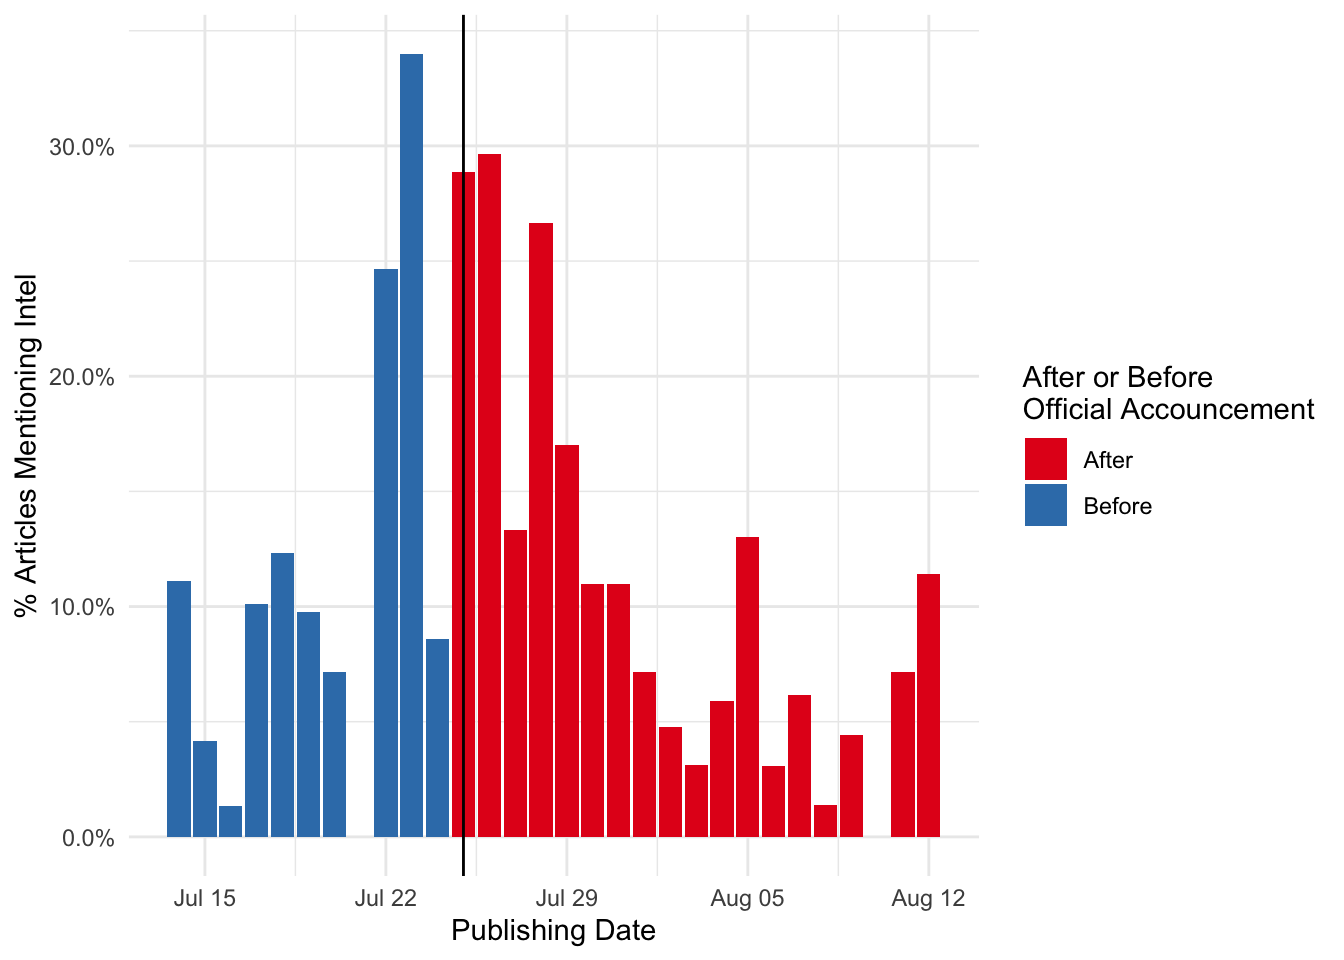
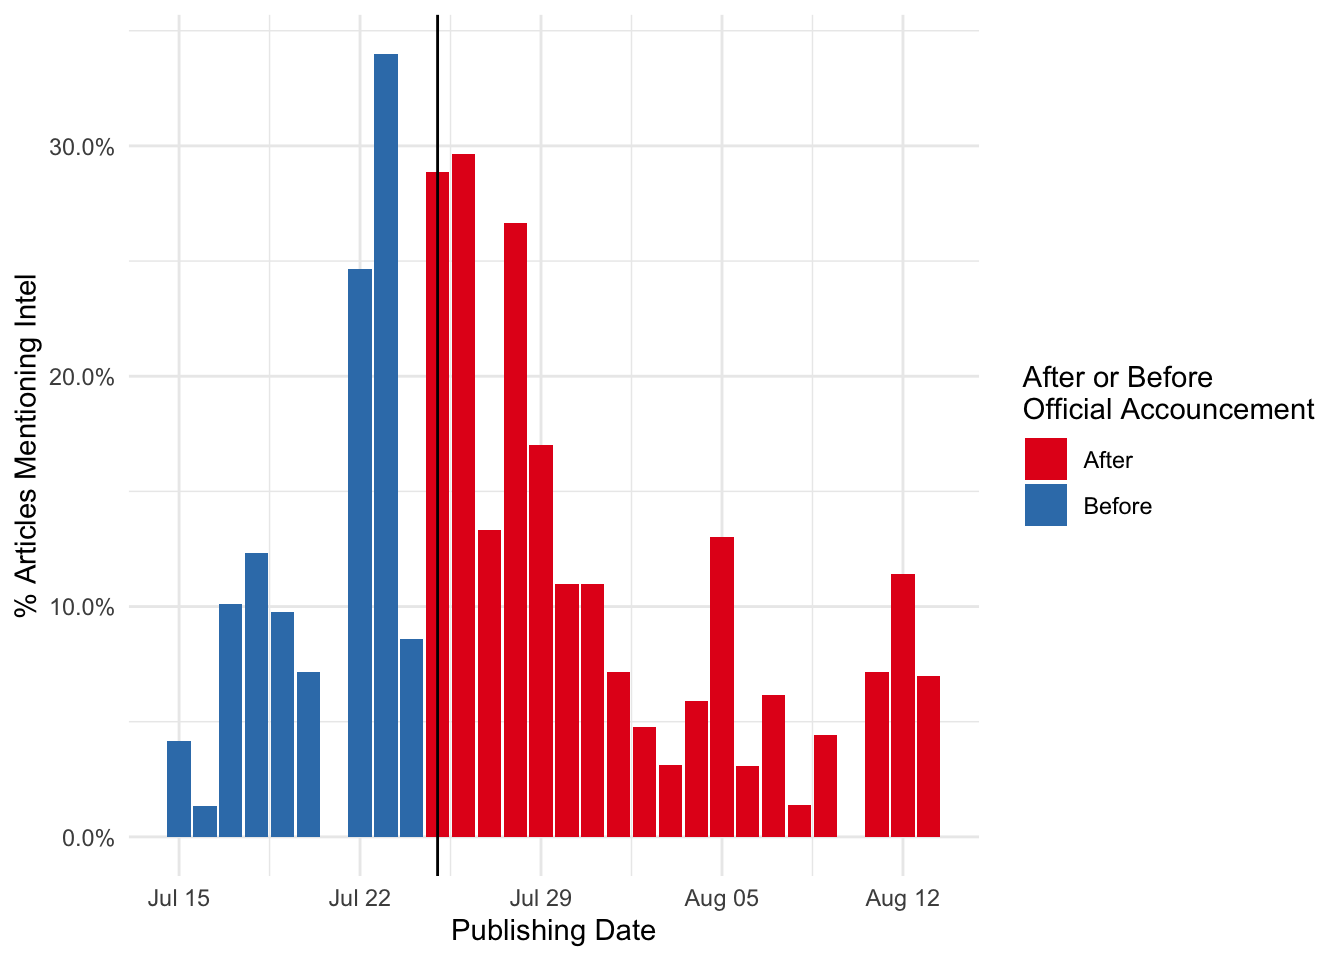
updated html, fixed plot for news blog

diff --git a/content/post/2019-08-14-exploring-stock-relationships-with-tiingo-news.html b/content/post/2019-08-14-exploring-stock-relationships-with-tiingo-news.html
@@ -23,7 +23,6 @@ keywords:
 library(dtplyr)
 library(tidyquant)
 library(riingo)
-library(widyr)
 library(igraph)
 library(ggraph)
 library(patchwork)
@@ -90,17 +89,17 @@ dates &lt;- seq((Sys.Date()-30), Sys.Date()-1, by=&#39;days&#39;)
 news &lt;- map2_df(.x=&#39;AAPL&#39;, .y=dates, get_daily_articles) 
 
 glimpse(news)</code></pre>
-<pre><code>## Observations: 1,902
+<pre><code>## Observations: 1,993
 ## Variables: 9
-## $ tickers       &lt;list&gt; [&lt;&quot;aapl&quot;, &quot;spot&quot;&gt;, &lt;&quot;aapl&quot;, &quot;amzn&quot;, &quot;fb&quot;, &quot;goog&quot;,…
-## $ description   &lt;chr&gt; &quot;ROXi Music, the makers of the home-based music st…
-## $ publishedDate &lt;dttm&gt; 2019-07-14 19:01:00, 2019-07-14 17:16:00, 2019-07…
-## $ tags          &lt;list&gt; [&lt;&quot;Business&quot;, &quot;Headlines&quot;, &quot;Markets&quot;, &quot;Stock&quot;, &quot;T…
-## $ crawlDate     &lt;dttm&gt; 2019-07-14 21:34:57, 2019-07-14 18:47:08, 2019-07…
-## $ title         &lt;chr&gt; &quot;UK&#39;s Roxi Music plans for new product launches as…
-## $ id            &lt;int&gt; 18311563, 18310344, 18311151, 18310517, 18307615, …
-## $ source        &lt;chr&gt; &quot;reuters.com&quot;, &quot;fool.com&quot;, &quot;finance.yahoo.com&quot;, &quot;b…
-## $ url           &lt;chr&gt; &quot;https://www.reuters.com/article/roxi-music-ipo/uk…</code></pre>
+## $ tickers       &lt;list&gt; [&lt;&quot;aapl&quot;, &quot;c&quot;, &quot;dow&quot;, &quot;dow&quot;, &quot;mrk&quot;&gt;, &quot;aapl&quot;, &lt;&quot;aa…
+## $ description   &lt;chr&gt; &quot;US Indexes Post Another Day of Closing Record Hig…
+## $ publishedDate &lt;dttm&gt; 2019-07-15 18:43:16, 2019-07-15 18:36:00, 2019-07…
+## $ tags          &lt;list&gt; [&lt;&quot;Financial Services&quot;, &quot;Healthcare&quot;, &quot;Materials&quot;…
+## $ crawlDate     &lt;dttm&gt; 2019-07-15 19:14:48, 2019-07-15 19:23:54, 2019-07…
+## $ title         &lt;chr&gt; &quot;US Indexes Post Another Day of Closing Record Hig…
+## $ id            &lt;int&gt; 18331941, 18332144, 18331774, 18332230, 18332260, …
+## $ source        &lt;chr&gt; &quot;gurufocus.com&quot;, &quot;fool.com&quot;, &quot;zacks.com&quot;, &quot;nasdaq.…
+## $ url           &lt;chr&gt; &quot;https://www.gurufocus.com/news/909040/us-indexes-…</code></pre>
 <p>We see that tickers are stored in a list column, with multiple tickers being associated with each news article. With this data, we can look at how often Intel is mentioned with Apple by day. The official announcement was July 25th, so we should expect to see a bump in the surrounding days</p>
 <pre class="r"><code>## Unnest the ticker list
 news_long &lt;- news %&gt;%
@@ -159,7 +158,7 @@ a &lt;- news_joined %&gt;%
   geom_node_point(color = &quot;darkslategray4&quot;, size = 3) +
   geom_node_label(aes(label = name),  size = 3, repel = TRUE) +
   theme_void() +
-  ggtitle(&#39;Excluding July 22 &amp; After July 29&#39;)
+  ggtitle(&#39;Before July 22 &amp; After July 29&#39;)
 
 ## Network graph for week of announcement
 b &lt;- news_joined %&gt;%
